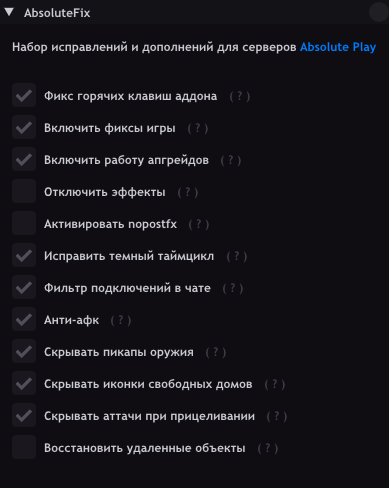
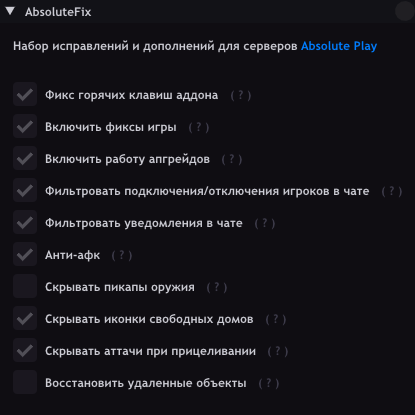
Update README AbsoluteFIx

diff --git a/luascripts/absolutefix/README.md b/luascripts/absolutefix/README.md
@@ -14,20 +14,18 @@
 * Восстанавливает последний выбранный пункт и текст в меню
 * Чат фильтр подключений/отключений игроков
 * Отключение различных эффектов дыма, пыли и теней
-* Отключение PostFx (опционально)
 * Возможность включить улучшения как в samp addon (бег по всем поверхностям, улучшенное вождение)
 * Отключения возвращения в выбор класса на F4
 * Отключение загрузочных экранов
 * Различные фиксы для увеличения FPS без кардинальных изменений самой игры
-* Исправление различных багов игры 
-* Исправление темного таймцикла
+* Исправление различных багов и крашей игры 
 * Исправление включения чата на T
 * Удаление ненужных разделов в меню в SA-MP
 * Фикс артефактов при сворачивании игры в интерьерах с зеркальным полом
 * Скрывает аттачи игрока при прицеливании
 * Возможность скрыть иконки пустых домов с радара
-* Возможность удалить пикапы выпадающего оружия с игрока
-* Возможность восстановить удаленные столбы, деревья и прочие объекты
+* Возможность удалить пикапы выпадающего оружия с игрока (Только для DM)
+* Возможность восстановить удаленные столбы, деревья и прочие объекты (Только для DM)
 * Исправление застревания игрока в другом игроке при спавне на DM
 * Бессмертному игроку визуально отключается урон на его транспорте
 * Восстановлены звуки для сообщений в личку
@@ -75,28 +73,29 @@
 Все настройки хранятся в файле moonloader\config\AbsoluteFix.ini  
 Скрытые настройки могут быть активированы только через конфиг файл
 ```INI
-	restoreremovedobjects=true
-	fixtimecycvalue=0.2
-	vehvisualdmg=true
-	gamefixes=true
-	invalidmodelsfix=true
-	noradio=true
-	antiafk=true
-	fixdarktimecyc=true
-	addonupgrades=true
-	hideattachesonaim=true
-	noweaponpickups=true
-	recontime=10000
-	chatfilter=true
-	fastload=true
-	nopostfx=false
-	hidehousesmapicons=true
-	menupatch=true
-	keybinds=true
-	autoreconnect=true
-	noeffects=false
-	nologo=false
-	nogametext=false
+  addonupgrades = true,
+  antiafk = true,
+  anticrash = true,
+  autoreconnect = true,
+  chatfilter = true,
+  dialogfix = true,
+  disablenotifications = true,
+  disablerecordnotifications = true,
+  fastload = true,
+  hideattachesonaim = true,
+  hidehousesmapicons = true,
+  gamefixes = true,
+  keybinds = true,
+  noeffects = false,
+  nologo = false,
+  noradio = false,
+  nogametext = false,
+  noweaponpickups = true,
+  menupatch = true,
+  pmsoundfix = true,
+  restoreremovedobjects = false,
+  recontime = 10000,
+  vehvisualdmg = false
 ```
 
 > Попробуйте более функциональный скрипт с множеством фиксов [GameFixer by Gorskin](https://vk.com/@gorskinscripts-gamefixer-obnovlenie-30)
